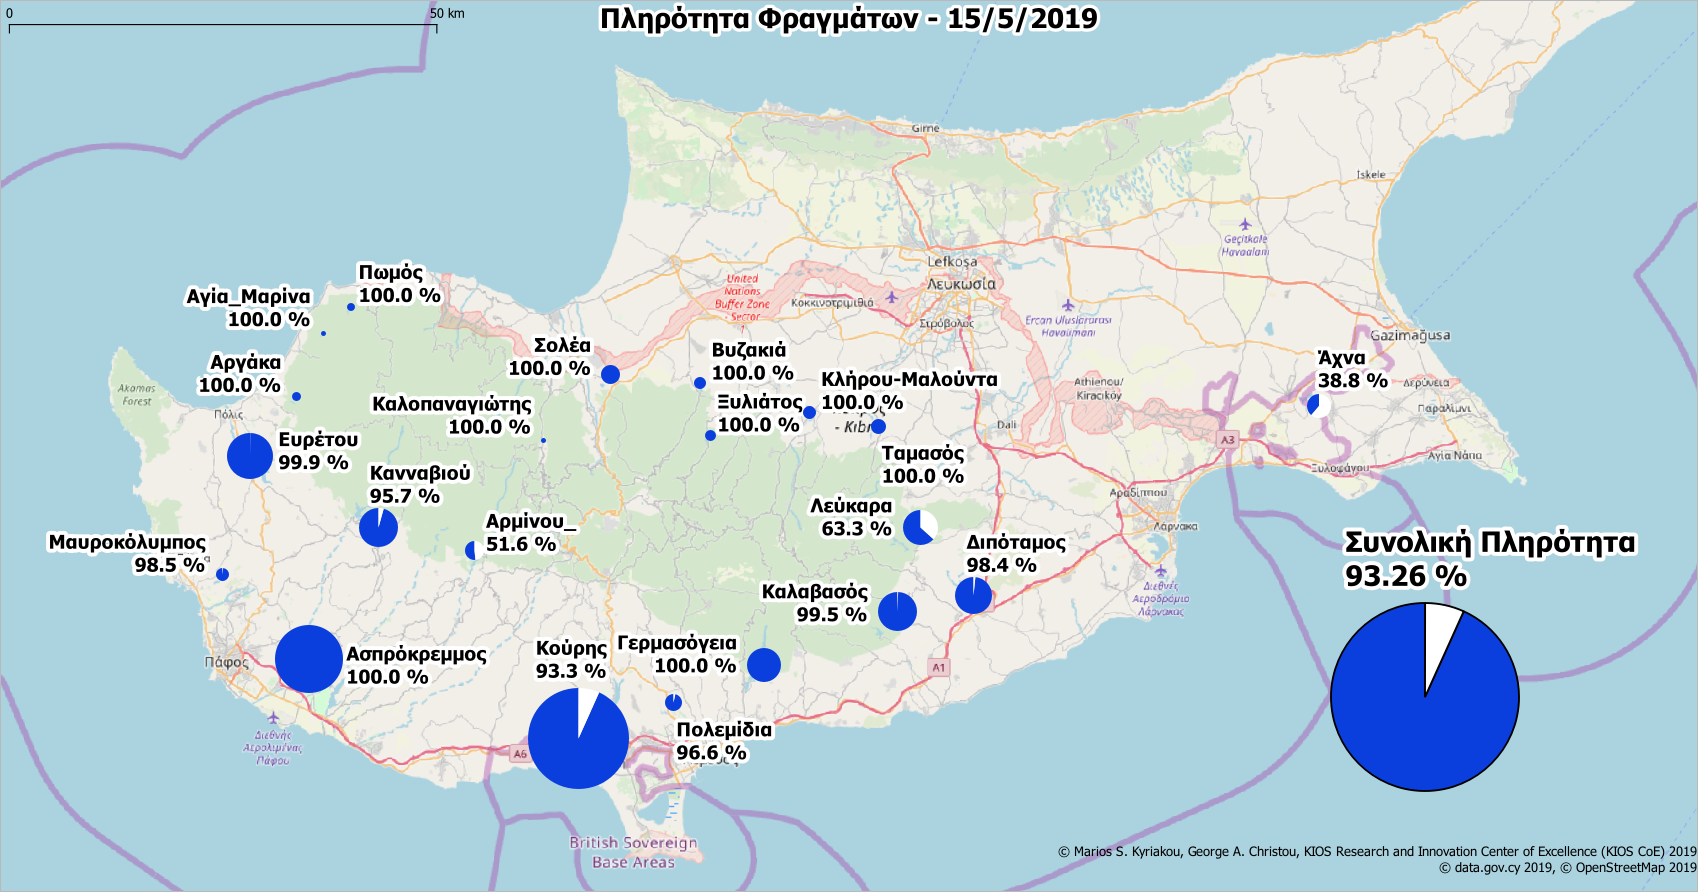
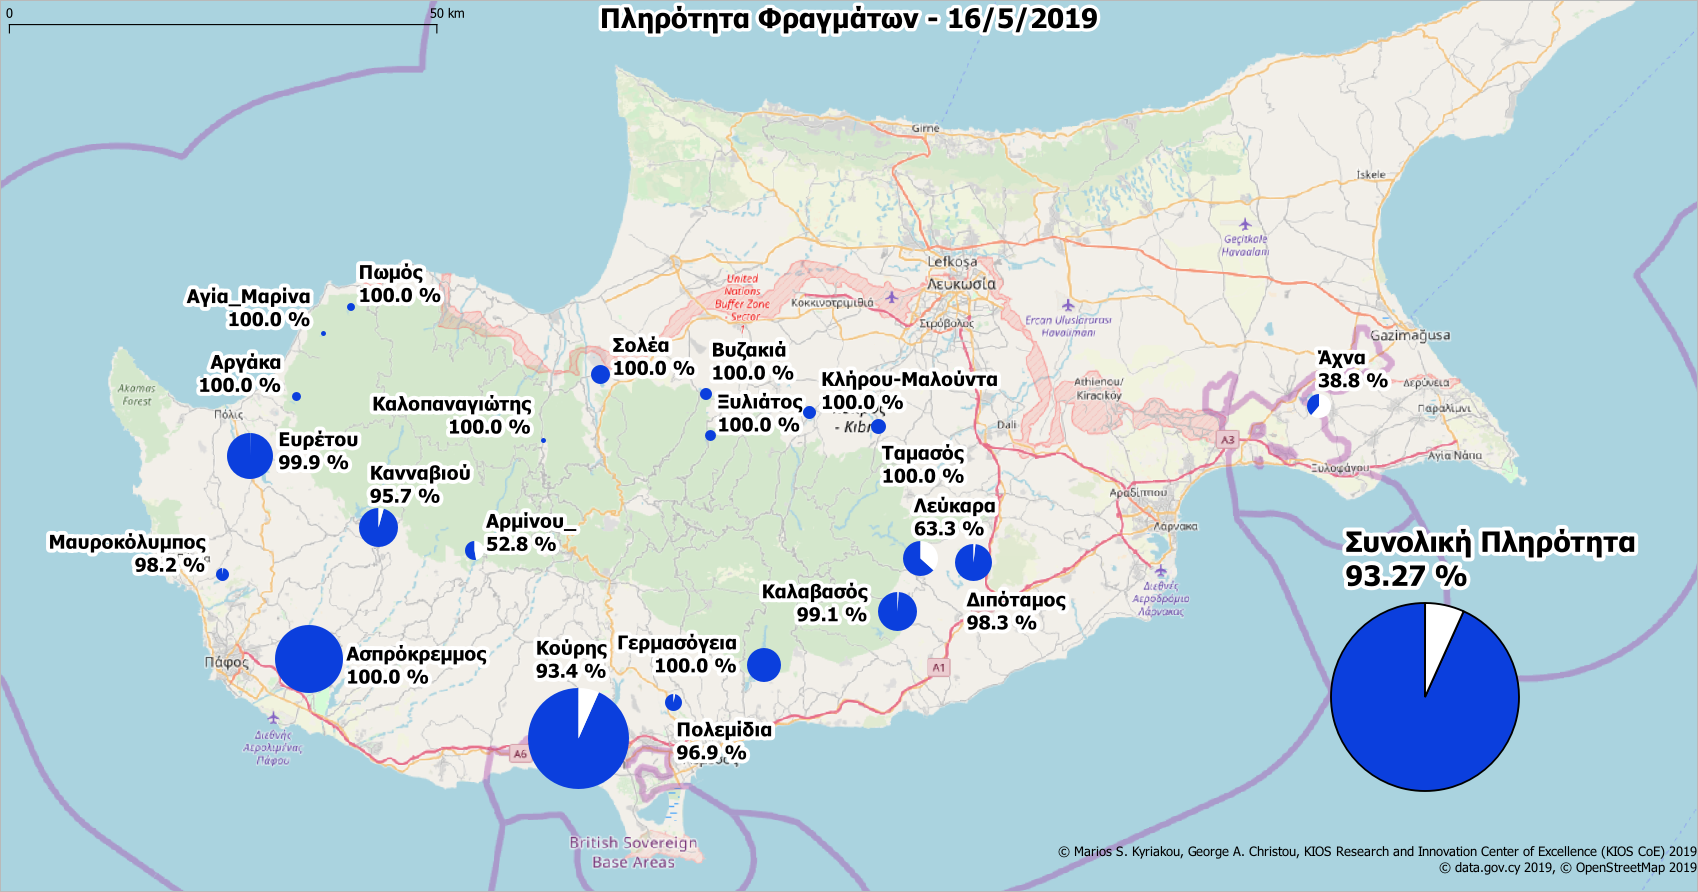
update

diff --git a/dams.html b/dams.html
@@ -11,7 +11,7 @@
          1px  1px 7px WHITE;
     }
     }
-    </style><p><b>Ημερομηνία ανανέωσης δεδομένων: 15/5/2019<p><font color="#0000FF">Η συνολική πληρότητα στα φράγματα είναι 93.26%</font>.<p>Υπάρχουν συνολικά <font color="#0000FF">11</font> φράγματα με πληρότητα <font color="#0000FF">100%</font>.<p>Υπάρχουν <font color="#0000FF">20</font> φράγματα με πληρότητα πάνω από <font color="#0000FF">50%</font>.</b><p><b>Υπάρχουν δεδομένα για 21 φράγματα. Συνολικά υπάρχουν 108 φράγματα. <b><p><p><p>* Ε.Κ.Μ. - Εκατομμύρια Kυβικά  Mέτρα.<table width="444">
+    </style><p><b>Ημερομηνία ανανέωσης δεδομένων: 16/5/2019<p><font color="#0000FF">Η συνολική πληρότητα στα φράγματα είναι 93.27%</font>.<p>Υπάρχουν συνολικά <font color="#0000FF">11</font> φράγματα με πληρότητα <font color="#0000FF">100%</font>.<p>Υπάρχουν <font color="#0000FF">20</font> φράγματα με πληρότητα πάνω από <font color="#0000FF">50%</font>.</b><p><b>Υπάρχουν δεδομένα για 21 φράγματα. Συνολικά υπάρχουν 108 φράγματα. <b><p><p><p>* Ε.Κ.Μ. - Εκατομμύρια Kυβικά  Mέτρα.<table width="444">
     <tbody>
     <tr>
     <th width="2"><b></b></th>
@@ -19,7 +19,7 @@
     <th width="60"><b>Χωρητικότητα (Ε.Κ.Μ.)</b></th>
     <th width="60"><b>Σημερινή (Ε.Κ.Μ.)</b></th>
     <th width="60"><b> Σημερινή Πληρότητα (%)</b></th>
-    </tr><tr><td bgcolor=#1A9641 class=border-white>1</td><td bgcolor=#1A9641 class=border-white>Κούρης</td><td bgcolor=#1A9641 class=border-white>115.0</td><td bgcolor=#1A9641 class=border-white>107.346</td><td bgcolor=#1A9641 class=border-white>93.3</td></tr><tr><tr><td bgcolor=#1A9641 class=border-white>2</td><td bgcolor=#1A9641 class=border-white>Ασπρόκρεμμος</td><td bgcolor=#1A9641 class=border-white>52.375</td><td bgcolor=#1A9641 class=border-white>52.375</td><td bgcolor=#1A9641 class=border-white>100.0</td></tr><tr><tr><td bgcolor=#1A9641 class=border-white>3</td><td bgcolor=#1A9641 class=border-white>Ευρέτου</td><td bgcolor=#1A9641 class=border-white>24.0</td><td bgcolor=#1A9641 class=border-white>23.977</td><td bgcolor=#1A9641 class=border-white>99.9</td></tr><tr><tr><td bgcolor=#1A9641 class=border-white>4</td><td bgcolor=#1A9641 class=border-white>Κανναβιού</td><td bgcolor=#1A9641 class=border-white>17.168</td><td bgcolor=#1A9641 class=border-white>16.434</td><td bgcolor=#1A9641 class=border-white>95.7</td></tr><tr><tr><td bgcolor=#1A9641 class=border-white>5</td><td bgcolor=#1A9641 class=border-white>Καλαβασός</td><td bgcolor=#1A9641 class=border-white>17.1</td><td bgcolor=#1A9641 class=border-white>17.009</td><td bgcolor=#1A9641 class=border-white>99.5</td></tr><tr><tr><td bgcolor=#1A9641 class=border-white>6</td><td bgcolor=#1A9641 class=border-white>Διπόταμος</td><td bgcolor=#1A9641 class=border-white>15.5</td><td bgcolor=#1A9641 class=border-white>15.249</td><td bgcolor=#1A9641 class=border-white>98.4</td></tr><tr><tr><td bgcolor=#A6D96A class=border-white>7</td><td bgcolor=#A6D96A class=border-white>Λεύκαρα</td><td bgcolor=#A6D96A class=border-white>13.85</td><td bgcolor=#A6D96A class=border-white>8.769</td><td bgcolor=#A6D96A class=border-white>63.3</td></tr><tr><tr><td bgcolor=#1A9641 class=border-white>8</td><td bgcolor=#1A9641 class=border-white>Γερμασόγεια</td><td bgcolor=#1A9641 class=border-white>13.5</td><td bgcolor=#1A9641 class=border-white>13.5</td><td bgcolor=#1A9641 class=border-white>100.0</td></tr><tr><tr><td bgcolor=#FED690 class=border-white>9</td><td bgcolor=#FED690 class=border-white>Άχνα</td><td bgcolor=#FED690 class=border-white>6.8</td><td bgcolor=#FED690 class=border-white>2.641</td><td bgcolor=#FED690 class=border-white>38.8</td></tr><tr><tr><td bgcolor=#1A9641 class=border-white>10</td><td bgcolor=#1A9641 class=border-white>Σολέα</td><td bgcolor=#1A9641 class=border-white>4.454</td><td bgcolor=#1A9641 class=border-white>4.454</td><td bgcolor=#1A9641 class=border-white>100.0</td></tr><tr><tr><td bgcolor=#D2EC95 class=border-white>11</td><td bgcolor=#D2EC95 class=border-white>Αρμίνου_</td><td bgcolor=#D2EC95 class=border-white>4.3</td><td bgcolor=#D2EC95 class=border-white>2.219</td><td bgcolor=#D2EC95 class=border-white>51.6</td></tr><tr><tr><td bgcolor=#1A9641 class=border-white>12</td><td bgcolor=#1A9641 class=border-white>Πολεμίδια</td><td bgcolor=#1A9641 class=border-white>3.4</td><td bgcolor=#1A9641 class=border-white>3.283</td><td bgcolor=#1A9641 class=border-white>96.6</td></tr><tr><tr><td bgcolor=#1A9641 class=border-white>13</td><td bgcolor=#1A9641 class=border-white>Ταμασός</td><td bgcolor=#1A9641 class=border-white>2.8</td><td bgcolor=#1A9641 class=border-white>2.8</td><td bgcolor=#1A9641 class=border-white>100.0</td></tr><tr><tr><td bgcolor=#1A9641 class=border-white>14</td><td bgcolor=#1A9641 class=border-white>Μαυροκόλυμπος</td><td bgcolor=#1A9641 class=border-white>2.18</td><td bgcolor=#1A9641 class=border-white>2.148</td><td bgcolor=#1A9641 class=border-white>98.5</td></tr><tr><tr><td bgcolor=#1A9641 class=border-white>15</td><td bgcolor=#1A9641 class=border-white>Κλήρου-Μαλούντα</td><td bgcolor=#1A9641 class=border-white>2.0</td><td bgcolor=#1A9641 class=border-white>2.0</td><td bgcolor=#1A9641 class=border-white>100.0</td></tr><tr><tr><td bgcolor=#1A9641 class=border-white>16</td><td bgcolor=#1A9641 class=border-white>Βυζακιά</td><td bgcolor=#1A9641 class=border-white>1.69</td><td bgcolor=#1A9641 class=border-white>1.69</td><td bgcolor=#1A9641 class=border-white>100.0</td></tr><tr><tr><td bgcolor=#1A9641 class=border-white>17</td><td bgcolor=#1A9641 class=border-white>Ξυλιάτος</td><td bgcolor=#1A9641 class=border-white>1.43</td><td bgcolor=#1A9641 class=border-white>1.43</td><td bgcolor=#1A9641 class=border-white>100.0</td></tr><tr><tr><td bgcolor=#1A9641 class=border-white>18</td><td bgcolor=#1A9641 class=border-white>Αργάκα</td><td bgcolor=#1A9641 class=border-white>0.99</td><td bgcolor=#1A9641 class=border-white>0.99</td><td bgcolor=#1A9641 class=border-white>100.0</td></tr><tr><tr><td bgcolor=#1A9641 class=border-white>19</td><td bgcolor=#1A9641 class=border-white>Πωμός</td><td bgcolor=#1A9641 class=border-white>0.86</td><td bgcolor=#1A9641 class=border-white>0.86</td><td bgcolor=#1A9641 class=border-white>100.0</td></tr><tr><tr><td bgcolor=#1A9641 class=border-white>20</td><td bgcolor=#1A9641 class=border-white>Καλοπαναγιώτης</td><td bgcolor=#1A9641 class=border-white>0.363</td><td bgcolor=#1A9641 class=border-white>0.363</td><td bgcolor=#1A9641 class=border-white>100.0</td></tr><tr><tr><td bgcolor=#1A9641 class=border-white>21</td><td bgcolor=#1A9641 class=border-white>Αγία_Μαρίνα</td><td bgcolor=#1A9641 class=border-white>0.298</td><td bgcolor=#1A9641 class=border-white>0.298</td><td bgcolor=#1A9641 class=border-white>100.0</td></tr><tr>
+    </tr><tr><td bgcolor=#1A9641 class=border-white>1</td><td bgcolor=#1A9641 class=border-white>Κούρης</td><td bgcolor=#1A9641 class=border-white>115.0</td><td bgcolor=#1A9641 class=border-white>107.378</td><td bgcolor=#1A9641 class=border-white>93.4</td></tr><tr><tr><td bgcolor=#1A9641 class=border-white>2</td><td bgcolor=#1A9641 class=border-white>Ασπρόκρεμμος</td><td bgcolor=#1A9641 class=border-white>52.375</td><td bgcolor=#1A9641 class=border-white>52.375</td><td bgcolor=#1A9641 class=border-white>100.0</td></tr><tr><tr><td bgcolor=#1A9641 class=border-white>3</td><td bgcolor=#1A9641 class=border-white>Ευρέτου</td><td bgcolor=#1A9641 class=border-white>24.0</td><td bgcolor=#1A9641 class=border-white>23.965</td><td bgcolor=#1A9641 class=border-white>99.9</td></tr><tr><tr><td bgcolor=#1A9641 class=border-white>4</td><td bgcolor=#1A9641 class=border-white>Κανναβιού</td><td bgcolor=#1A9641 class=border-white>17.168</td><td bgcolor=#1A9641 class=border-white>16.434</td><td bgcolor=#1A9641 class=border-white>95.7</td></tr><tr><tr><td bgcolor=#1A9641 class=border-white>5</td><td bgcolor=#1A9641 class=border-white>Καλαβασός</td><td bgcolor=#1A9641 class=border-white>17.1</td><td bgcolor=#1A9641 class=border-white>16.954</td><td bgcolor=#1A9641 class=border-white>99.1</td></tr><tr><tr><td bgcolor=#1A9641 class=border-white>6</td><td bgcolor=#1A9641 class=border-white>Διπόταμος</td><td bgcolor=#1A9641 class=border-white>15.5</td><td bgcolor=#1A9641 class=border-white>15.24</td><td bgcolor=#1A9641 class=border-white>98.3</td></tr><tr><tr><td bgcolor=#A6D96A class=border-white>7</td><td bgcolor=#A6D96A class=border-white>Λεύκαρα</td><td bgcolor=#A6D96A class=border-white>13.85</td><td bgcolor=#A6D96A class=border-white>8.773</td><td bgcolor=#A6D96A class=border-white>63.3</td></tr><tr><tr><td bgcolor=#1A9641 class=border-white>8</td><td bgcolor=#1A9641 class=border-white>Γερμασόγεια</td><td bgcolor=#1A9641 class=border-white>13.5</td><td bgcolor=#1A9641 class=border-white>13.5</td><td bgcolor=#1A9641 class=border-white>100.0</td></tr><tr><tr><td bgcolor=#FED690 class=border-white>9</td><td bgcolor=#FED690 class=border-white>Άχνα</td><td bgcolor=#FED690 class=border-white>6.8</td><td bgcolor=#FED690 class=border-white>2.641</td><td bgcolor=#FED690 class=border-white>38.8</td></tr><tr><tr><td bgcolor=#1A9641 class=border-white>10</td><td bgcolor=#1A9641 class=border-white>Σολέα</td><td bgcolor=#1A9641 class=border-white>4.454</td><td bgcolor=#1A9641 class=border-white>4.454</td><td bgcolor=#1A9641 class=border-white>100.0</td></tr><tr><tr><td bgcolor=#D2EC95 class=border-white>11</td><td bgcolor=#D2EC95 class=border-white>Αρμίνου_</td><td bgcolor=#D2EC95 class=border-white>4.3</td><td bgcolor=#D2EC95 class=border-white>2.272</td><td bgcolor=#D2EC95 class=border-white>52.8</td></tr><tr><tr><td bgcolor=#1A9641 class=border-white>12</td><td bgcolor=#1A9641 class=border-white>Πολεμίδια</td><td bgcolor=#1A9641 class=border-white>3.4</td><td bgcolor=#1A9641 class=border-white>3.294</td><td bgcolor=#1A9641 class=border-white>96.9</td></tr><tr><tr><td bgcolor=#1A9641 class=border-white>13</td><td bgcolor=#1A9641 class=border-white>Ταμασός</td><td bgcolor=#1A9641 class=border-white>2.8</td><td bgcolor=#1A9641 class=border-white>2.8</td><td bgcolor=#1A9641 class=border-white>100.0</td></tr><tr><tr><td bgcolor=#1A9641 class=border-white>14</td><td bgcolor=#1A9641 class=border-white>Μαυροκόλυμπος</td><td bgcolor=#1A9641 class=border-white>2.18</td><td bgcolor=#1A9641 class=border-white>2.141</td><td bgcolor=#1A9641 class=border-white>98.2</td></tr><tr><tr><td bgcolor=#1A9641 class=border-white>15</td><td bgcolor=#1A9641 class=border-white>Κλήρου-Μαλούντα</td><td bgcolor=#1A9641 class=border-white>2.0</td><td bgcolor=#1A9641 class=border-white>2.0</td><td bgcolor=#1A9641 class=border-white>100.0</td></tr><tr><tr><td bgcolor=#1A9641 class=border-white>16</td><td bgcolor=#1A9641 class=border-white>Βυζακιά</td><td bgcolor=#1A9641 class=border-white>1.69</td><td bgcolor=#1A9641 class=border-white>1.69</td><td bgcolor=#1A9641 class=border-white>100.0</td></tr><tr><tr><td bgcolor=#1A9641 class=border-white>17</td><td bgcolor=#1A9641 class=border-white>Ξυλιάτος</td><td bgcolor=#1A9641 class=border-white>1.43</td><td bgcolor=#1A9641 class=border-white>1.43</td><td bgcolor=#1A9641 class=border-white>100.0</td></tr><tr><tr><td bgcolor=#1A9641 class=border-white>18</td><td bgcolor=#1A9641 class=border-white>Αργάκα</td><td bgcolor=#1A9641 class=border-white>0.99</td><td bgcolor=#1A9641 class=border-white>0.99</td><td bgcolor=#1A9641 class=border-white>100.0</td></tr><tr><tr><td bgcolor=#1A9641 class=border-white>19</td><td bgcolor=#1A9641 class=border-white>Πωμός</td><td bgcolor=#1A9641 class=border-white>0.86</td><td bgcolor=#1A9641 class=border-white>0.86</td><td bgcolor=#1A9641 class=border-white>100.0</td></tr><tr><tr><td bgcolor=#1A9641 class=border-white>20</td><td bgcolor=#1A9641 class=border-white>Καλοπαναγιώτης</td><td bgcolor=#1A9641 class=border-white>0.363</td><td bgcolor=#1A9641 class=border-white>0.363</td><td bgcolor=#1A9641 class=border-white>100.0</td></tr><tr><tr><td bgcolor=#1A9641 class=border-white>21</td><td bgcolor=#1A9641 class=border-white>Αγία_Μαρίνα</td><td bgcolor=#1A9641 class=border-white>0.298</td><td bgcolor=#1A9641 class=border-white>0.298</td><td bgcolor=#1A9641 class=border-white>100.0</td></tr><tr>
     </tr>
     <tr>
     <td></td>
